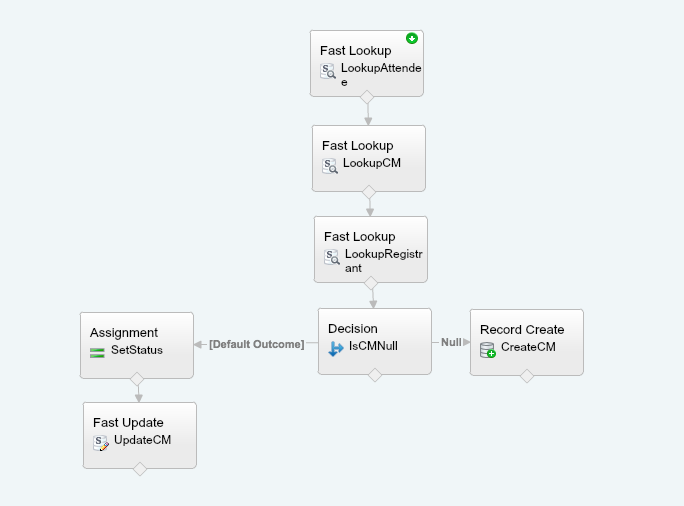
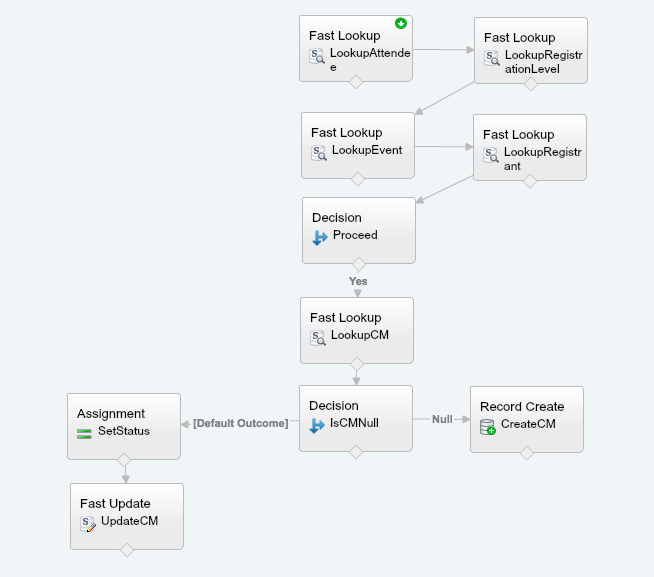
Update C&P post

diff --git a/_posts/2016-12-28-bridging-click-and-pledge-and-salesforce-campaigns.md b/_posts/2016-12-28-bridging-click-and-pledge-and-salesforce-campaigns.md
@@ -3,49 +3,89 @@ layout: post
 title: Bridging Click & Pledge and Salesforce Campaigns with Process and Flow
 ---
 
-Click & Pledge provides functionality to add contacts who register for an event to a Salesforce campaign. However, contacts are added with the first available status (often 'Sent'), rather than a value showing them as registered or attended. Because campaigns provide a standard, deduplicated, reportable data architecture that's independent of registration package, it's valuable to propagate C&P status updates into the associated campaigns. At the same time, it's easy to meet a common campaign reporting need by marking who's attending each event as a guest of whom, using a custom lookup field "Registered by" to the `Contact` on the `Campaign Member` object.
+*This post has been extensively revised to broaden the applicability of the solution, covering anonymous and named Click & Pledge events.*
+
+Click & Pledge provides functionality to add contacts who register for an event to a Salesforce campaign. However, contacts are added with the first available status (often 'Sent'), rather than a value showing them as registered or attended. Because campaigns provide a standard, deduplicated, reportable data architecture that's independent of registration package, it's valuable to propagate C&P status updates into the associated campaigns.
+
+At the same time, we can add value to the `Campaign Member` object and support common reporting needs by marking who's attending each event as a guest of whom, using a custom lookup field `Registered by` to the `Contact` on the `Campaign Member` object.
 
 Because both of the registration objects used by Click and Pledge (`C&P Event Registered Attendee` and `C&P Event Registrant`) may be associated with `C&P Temporary Contacts` that can be linked to `Contacts` in any order, at different times, and via asynchronous process, we use an adaptable structure with two processes and two autolaunched flows. The processes and flows create and update `Campaign Members` incrementally as information becomes available, and re-run on each modification to the registration objects to propagate updates.
+
+It's also important to take into account anonymous events. Click & Pledge creates `C&P Registered Attendee` records for anonymous registrations, but they're never linked to contacts — only the `C&P Event Registrant` is. Our flows take this variation into account.
 
 ## Process 1: Registered Attendees
 Triggered on the `C&P Event Registered Attendee` object upon creation or modification.
 
-The single action group is run when the following formula evaluates to `true`:
-
-    !ISBLANK([CnP_PaaS_EVT__Event_attendee_session__c].CnP_PaaS_EVT__ContactId__c) && (!ISBLANK([CnP_PaaS_EVT__Event_attendee_session__c].CnP_PaaS_EVT__Registration_level__c) && !ISBLANK([CnP_PaaS_EVT__Event_attendee_session__c].CnP_PaaS_EVT__Registration_level__c.CnP_PaaS_EVT__Campaign__c))
-
-The formula ensures that the process is only invoked when both a contact is assigned (i.e., after the `C&P Temporary Contact` is processed) and a campaign is assigned for the relevant registration level.
-
-The only action is Run Flow, triggering Flow 1 with the Registered Attendee and Campaign IDs as parameters.
-
-![Run Flow]({{ site.baseurl }}/public/cnp-campaign-screens/process1.png)
+Because we cannot rely on a Contact ever being linked to the registered attendee (in the case of anonymous registrations),
+the process's single action group is run without criteria. It simply invokes Flow 1 with the Registered Attendee as its parameter. The flow is responsible for extracting the other required information from the object hierarchy.
 
 ## Process 2: Registrants
-Triggered on the `C&P Event Registrant` object upon creation or modification. This process is required only for populating the "Registered by" field on the `Campaign Member`.
+Triggered on the `C&P Event Registrant` object upon creation or modification.
 
-The sole action group criterion is `[CnP_PaaS_EVT__Event_registrant_session__c].CnP_PaaS_EVT__ContactId__c` is not `null`.
+Even in the case of anonymous events, a Contact must ultimately be assigned to the registrant. This process therefore has a single action group criterion, `[CnP_PaaS_EVT__Event_registrant_session__c].CnP_PaaS_EVT__ContactId__c is not null`.
 
-The only action is Run Flow, triggering Flow 2 with the Registrant ID as a parameter.
+The only action is Run Flow, triggering Flow 2 with the Registrant ID as a parameter. This process is necessary not only to update the `Registered by` field, but also to handle propagating a Contact value down to its registered attendees for anonymous events.
 
 ## Flow 1: Update Campaign Members
 *Called by Process 1 and Flow 2*
 
-This flow contains the meat of the functionality. It accepts two input variables, holding the IDs of the `C&P Event Registered Attendee` and the associated `Campaign`. The flow has the following structure.
+This flow contains the meat of the functionality. It accepts one input variable, holding the ID of the `C&P Event Registered Attendee`. The flow has the following structure.
 
 ![Update Campaign Members flow]({{ site.baseurl }}/public/cnp-campaign-screens/flow1.png)
 
-Three Fast Lookup elements assign the `C&P Event Registered Attendee`, `Campaign Member` (if extant), and `C&P Event Registrant` (if extant) objects to variables. Note that the registered attendee is guaranteed not to be `null` by the calling process, but the registrant is not — its presence depends on how each individual transaction is processed by the user.
+Four Fast Lookup elements assign the `C&P Event Registered Attendee`, `C&P Event`, `Campaign Member`, and `C&P Event Registrant` objects to variables. Note that the registered attendee is guaranteed not to be `null` by the calling process, but the other objects are nullable, and the registrant will often be `null` dependent upon the user's processing of temporary contacts.
 
-If the `Campaign Member` is `null`, a new record is created and inserted. If not, the `Campaign Member` is updated. In either case, the status is set to "Registered" or "Attended" depending on the value of the `Check-In Status` field. If the registrant has a `Contact` assigned, the "Registered by" lookup is populated; if not, Process 2 will fire when it's updated to bring the change through.
+The flow uses five formulas to draw data from these four objects:
+
+### `CampaignId`
+
+Evaluates to the Campaign assigned to the registration level, if any, or to that assigned to the event, if any, or `null`.
+
+   IF(!ISBLANK({!RegisteredAttendeeSobject.CnP_PaaS_EVT__Registration_level__c}) && !ISBLANK({!RegistrationLevelSobject.CnP_PaaS_EVT__Campaign__c}), {!RegistrationLevelSobject.CnP_PaaS_EVT__Campaign__c},
+   IF(!ISBLANK({!RegisteredAttendeeSobject.CnP_PaaS_EVT__EventId__c}) && !ISBLANK({!EventSobject.CnP_PaaS_EVT__Campaign__c}), {!EventSobject.CnP_PaaS_EVT__Campaign__c}, null))
+
+### `ContactId`
+
+Evaluates to the Contact assigned to the registered attendee, unless the event is marked as anonymous, in which case it evaluates
+to the contact of the registrant.
+
+   IF(!ISBLANK({!RegisteredAttendeeSobject.CnP_PaaS_EVT__EventId__c}) && {!EventSobject.CnP_PaaS_EVT__Anonymous__c} && !ISBLANK({!RegisteredAttendeeSobject.CnP_PaaS_EVT__Registrant_session_Id__c}) && !ISBLANK({!Registrant.CnP_PaaS_EVT__ContactId__c}), {!Registrant.CnP_PaaS_EVT__ContactId__c}, {!RegisteredAttendeeSobject.CnP_PaaS_EVT__ContactId__c})
+
+### `RegistrantId`
+
+Evaluates to the Contact assigned to the Registrant, unless it is the same as the Contact of the attendee. Used to populate the `Registered by` field.
+
+   IF(!ISBLANK({!RegisteredAttendeeSobject.CnP_PaaS_EVT__Registrant_session_Id__c}) && !ISBLANK({!Registrant.CnP_PaaS_EVT__ContactId__c}) && {!Registrant.CnP_PaaS_EVT__ContactId__c} != {!ContactId}, {!Registrant.CnP_PaaS_EVT__ContactId__c}, null)
+
+
+### `CMStatusExisting`
+
+Evaluates to the campaign member status value to use if an existing `Campaign Member` is located. It will not overwrite an 'Attended' value; this attempts to cope with check-ins performed on the multiple registered attendees that may be linked to a single contact and registrant for anonymous events.
+
+   IF({!RegisteredAttendeeSobject.CnP_PaaS_EVT__CheckIn_Status__c} = 'Checked-In', 'Attended', IF(!ISPICKVAL({!CM.Status}, 'Attended'), 'Registered', TEXT({!CM.Status})))
+
+### `CMStatusNew`
+
+Evaluates to the campaign member status value to use if a new `Campaign Member` is being created.
+
+   IF({!RegisteredAttendeeSobject.CnP_PaaS_EVT__CheckIn_Status__c} = 'Checked-In', 'Attended', 'Registered')
+
+
+Because the calling processes cannot guarantee that appropriate information will be available in the object hierarchy in all
+circumstances, the flow uses a decision element to decide whether to proceed; it continues if both `ContactId` and `CampaignId` are non-null.
+
+These conditions being met, if the `Campaign Member` is `null`, a new record is created and inserted, using `CMStatusNew`, `ContactId`, `CampaignId`, and `RegistrantId`. If not, the `Campaign Member` is updated, and `CMStatusExisting` is used.
+
+If the registrant has not yet been populated (for a named event), the `Registered by` field will be populated when Process 2 and Flow 2 fire.
 
 ## Flow 2: Update Registered Attendees
 *Called by Process 2, calls Flow 1*
 
-This flow is required only for populating the "Registered by" field on the `Campaign Member` in the circumstance that the `C&P Temporary Contact` corresponding to the registrant is processed after one or more of those corresponding to the associated attendees. It accepts as input parameter the ID of the modified `C&P Event Registrant` object. The flow has the following structure.
+This flow is required for handling anonymous registrations (where a contact is assigned only to the registrant object) and for populating the "Registered by" field on the `Campaign Member` in the circumstance that the `C&P Temporary Contact` corresponding to the registrant is processed after one or more of those corresponding to the associated attendees. It accepts as input parameter the ID of the modified `C&P Event Registrant` object. The flow has the following structure.
 
 ![Update Registered Attendees flow]({{ site.baseurl }}/public/cnp-campaign-screens/flow2.png)
 
-A Fast Lookup assigns all `C&P Registered Attendees` linked to the registrant to an sObject collection variable. A loop iterates over the collection and checks for a valid registration level with a campaign value populated. If it finds those values, it invokes Flow 1 with the required parameters. Any other registered attendees are ignored.
+A Fast Lookup assigns all `C&P Registered Attendees` linked to the registrant to an sObject collection variable. A loop iterates over the collection and invokes Flow 1 with the required parameter. No criteria are applied to the registered attendees; all evaluation is handled in Flow 1.
 
 ## Summary
 
